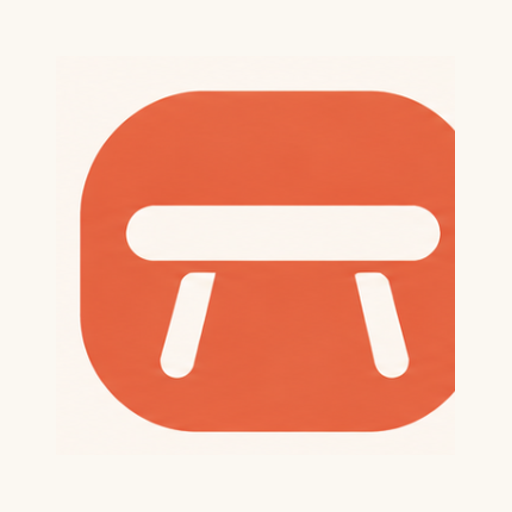
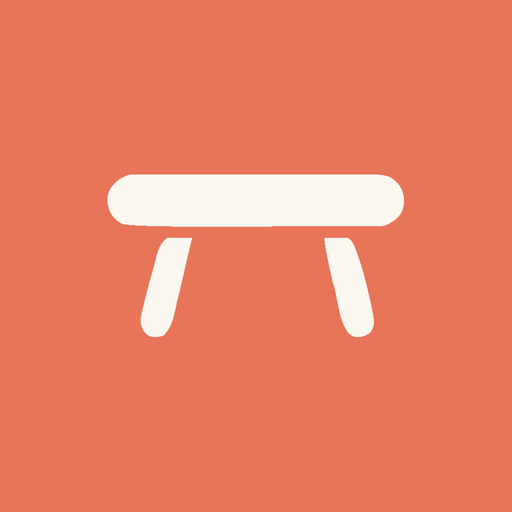
Mesaí: ícone da tela de início do iPhone ocupando o quadro inteiro (sem moldura branca), igual ao ícone do app nativo
Claude-Session: https://claude.ai/code/session_014e9zebmS2nRxFNco4FToXS

diff --git a/mesai/v2/index.html b/mesai/v2/index.html
@@ -2,7 +2,7 @@
 <html lang="pt-BR">
 <head>
 <meta charset="utf-8"><meta name="viewport" content="width=device-width,initial-scale=1,viewport-fit=cover">
-<meta name="theme-color" content="#ffffff"><link rel="manifest" href="manifest.webmanifest"><link rel="apple-touch-icon" href="assets/icon-192.png"><meta name="apple-mobile-web-app-capable" content="yes"><meta name="apple-mobile-web-app-title" content="Mesaí"><meta name="description" content="Descubra restaurantes presenciais e veja o ambiente antes de sair.">
+<meta name="theme-color" content="#ffffff"><link rel="manifest" href="manifest.webmanifest"><link rel="apple-touch-icon" sizes="180x180" href="assets/apple-touch-icon.png?v=2"><meta name="apple-mobile-web-app-capable" content="yes"><meta name="apple-mobile-web-app-title" content="Mesaí"><meta name="description" content="Descubra restaurantes presenciais e veja o ambiente antes de sair.">
 <title>Mesaí — descubra onde comer</title>
 <link rel="stylesheet" href="css/tokens.css?v=62">
 <link rel="stylesheet" href="css/app.css?v=62">
